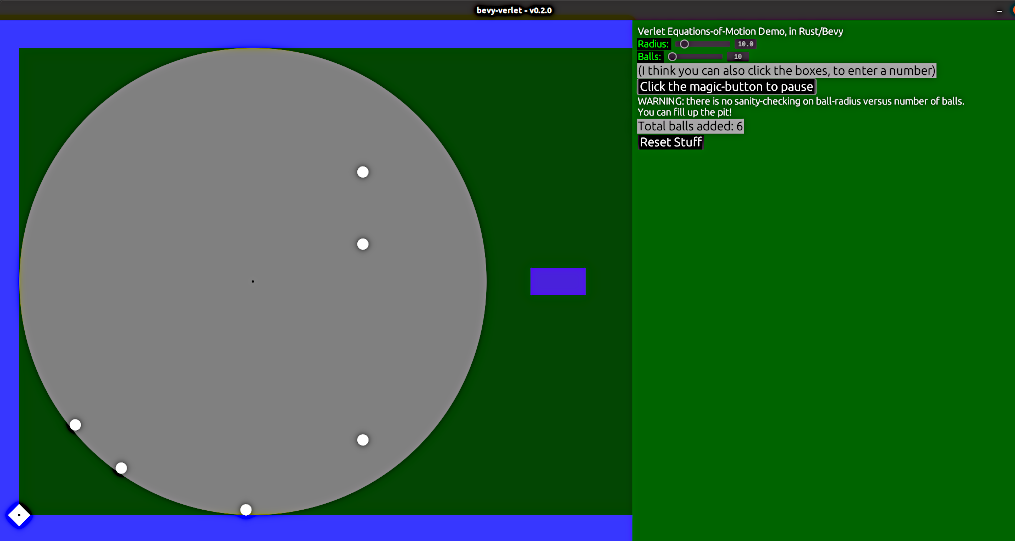
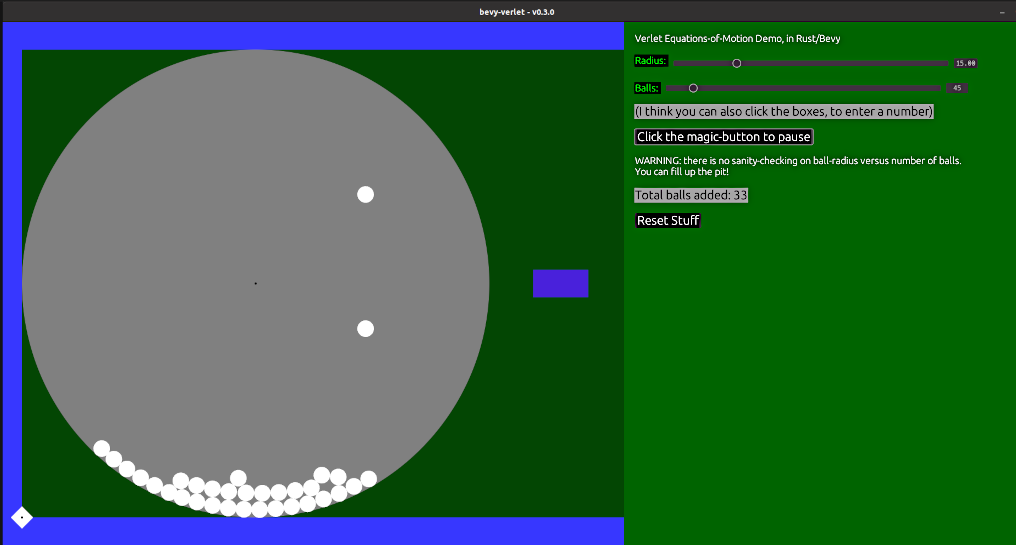
UI tweaking

diff --git a/src/my_egui.rs b/src/my_egui.rs
@@ -1,10 +1,12 @@
 /*
 Experiments in learning egui.
 https://docs.rs/egui/latest/egui/
+
+This Does nothing? How does Frame interact?
+ui.style_mut().spacing.window_margin = Margin {left: 100.0, right: 100.0, top: 50.0, bottom: 50.0};
 */
 
 use bevy::prelude::*;
-#[allow(unused_imports)]
 use bevy_egui::*;
 use egui::*;
 use crate::{PitActive, GuiData, GameState};
@@ -15,7 +17,7 @@ pub fn do_ui_setup(mut egui_context: ResMut<EguiContext>,
 ) {
     let my_frame = egui::containers::Frame {
         outer_margin: Default::default(),
-        inner_margin: egui::style::Margin { left: 10.0, right: 10.0, top: 10.0, bottom: 10.0 },
+        inner_margin: egui::style::Margin { left: 20.0, right: 20.0, top: 20.0, bottom: 20.0 },
         rounding: Default::default(),
         // shadow: epaint::Shadow { extrusion: 1.0, color: Color32::YELLOW },
         shadow: Default::default(),
@@ -68,24 +70,30 @@ pub fn do_ui_setup(mut egui_context: ResMut<EguiContext>,
         .min_width(700.0)
         // .resizable(true)  // Only works if there's a resizable element inside?
         .show(egui_context.ctx_mut(), |ui| {
+            ui.style_mut().spacing.slider_width = 500.0;
+            ui.style_mut().spacing.item_spacing = egui::Vec2 {x: 10.0, y: 20.0};
+
             ui.label(big_text_lbl_1);
+
             ui.horizontal(|ui| {
                 ui.label(big_text_btn_5);
-                ui.add_sized([100.0, 20.0], radius_slider);
+                ui.add_sized([300.0, 30.0], radius_slider);
             });
             ui.horizontal(|ui| {
                 ui.label(big_text_btn_7);
                 ui.add(ball_slider);
             });
+
             ui.add(Label::new(big_text_lbl_7));
+
             if ui.button(big_text_btn_1).clicked() {
                 action_check.is_paused = !action_check.is_paused;
-
                 // Start the game
                 if action_check.is_paused == false && action_check.game_status == GameState::NotStarted {
                     action_check.game_status = GameState::Running;
                 }
             }
+
             ui.label(big_text_lbl_5);
             ui.add(Label::new(big_text_lbl_3));
 
